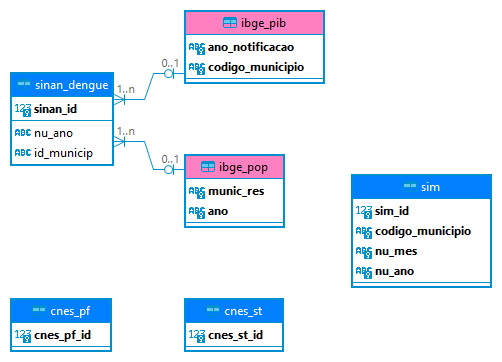
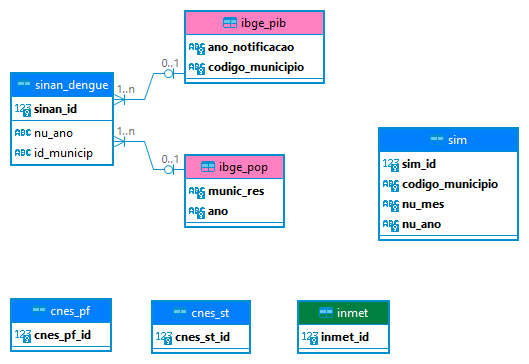
feat: implementação da adição automática no banco de dados dos dados do inmet

Changed region(s): [[0.2689, 0.3343, 0.9861, 0.9724], [0.0, 0.0304, 0.6574, 0.6381], [0.0, 0.8204, 0.239, 0.9724]]

diff --git a/README.md b/README.md
@@ -54,10 +54,12 @@ https://zenodo.org/records/11400243
 https://www.ibge.gov.br/explica/codigos-dos-municipios.php
 
 ## INMET (Clima)
-Provavelmente não terão todos os municípios.
-Como lidar?
+Metodologia:
+Para os dados nulos dos municípios, foi escolhida a abordagem de se calcular a mediana das variáveis por estado, mês e ano
+
 Dados a nível de alguns municípios e por hora
 https://github.com/tbrugz/geodata-br
+
 https://portal.inmet.gov.br/dadoshistoricos
 https://portal.inmet.gov.br/uploads/dadoshistoricos/2010.zip
 
